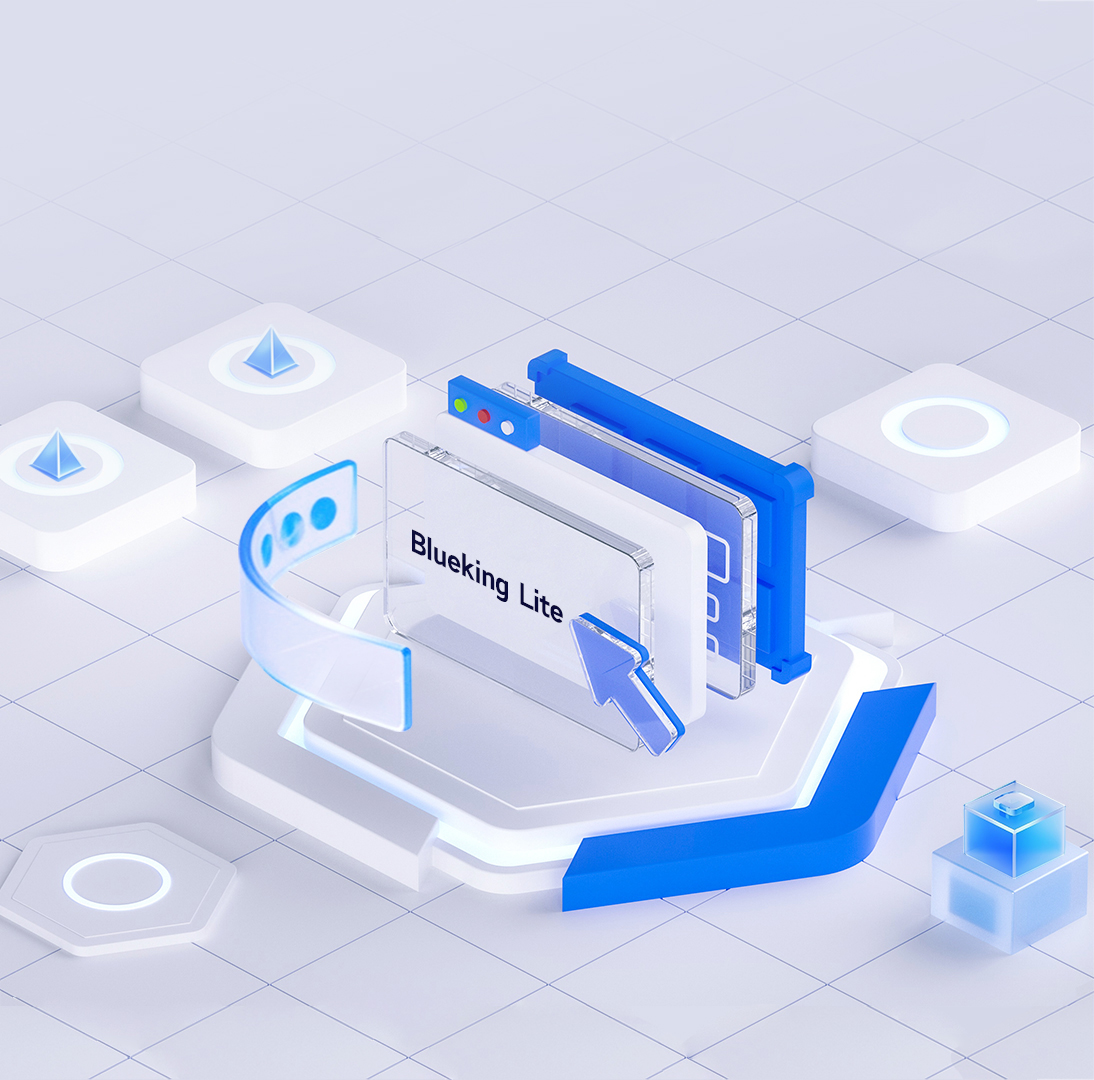
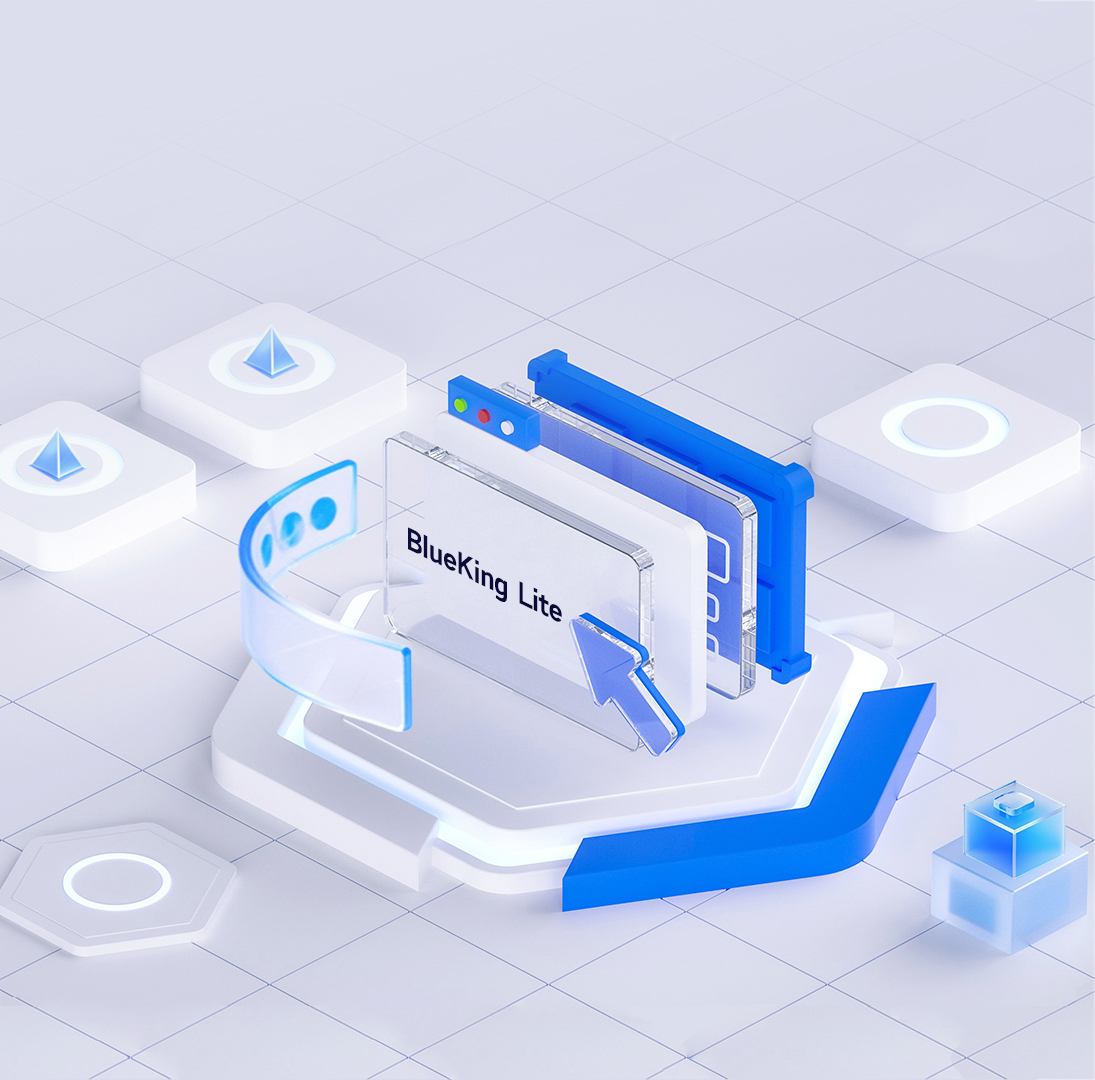
fix: optimize the writing of proper nouns close #362

diff --git a/web/src/components/top-menu/index.tsx b/web/src/components/top-menu/index.tsx
@@ -123,7 +123,7 @@ const TopMenu = () => {
   };
 
   const handleDocumentClick = () => {
-    window.open('https://wd.canway.net/?cat=27', '_blank');
+    window.open('https://github.com/TencentBlueKing/bk-lite', '_blank');
   };
 
   const renderContent = loading ? (
@@ -153,7 +153,7 @@ const TopMenu = () => {
       <div className="flex items-center justify-between px-4 w-full h-full">
         <div className="flex items-center space-x-2">
           <Image src="/logo-site.png" className="block w-auto h-10" alt="logo" width={100} height={40} />
-          <div className="font-medium">Blueking Lite</div>
+          <div className="font-medium">BlueKing Lite</div>
           <Popover content={renderContent} title={t('common.appList')} trigger="hover">
             <div className={`flex items-center justify-center cursor-pointer rounded-[10px] px-3 py-2 ${styles.nav}`}>
               <Icon type="caidandaohang" className="mr-1" />
